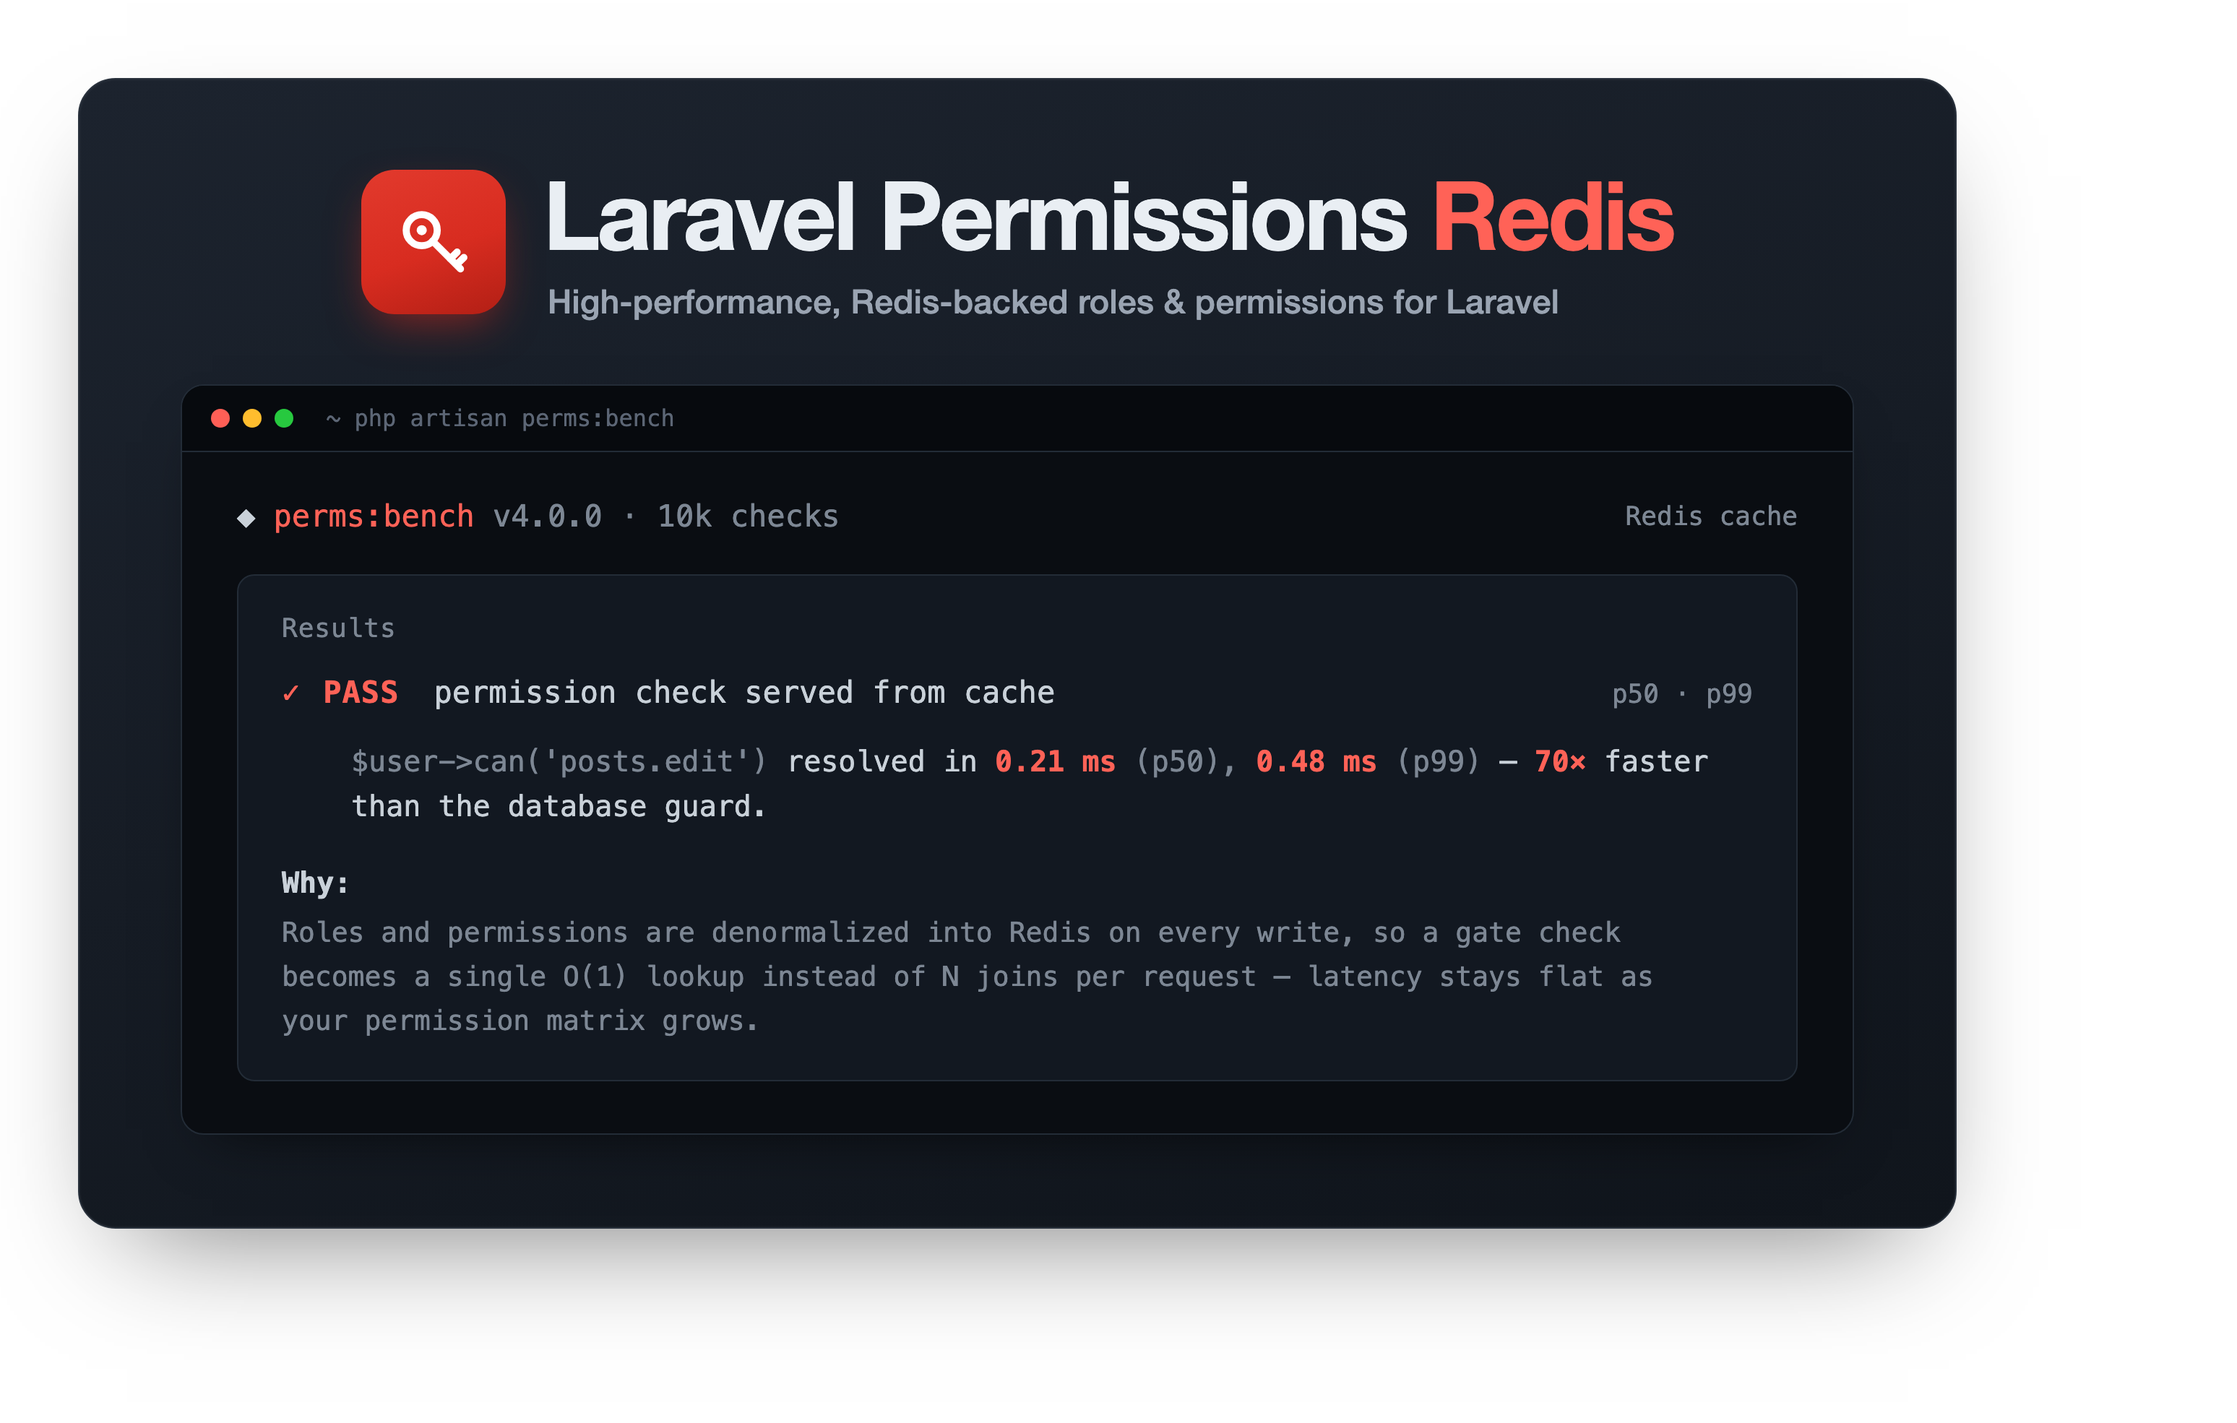
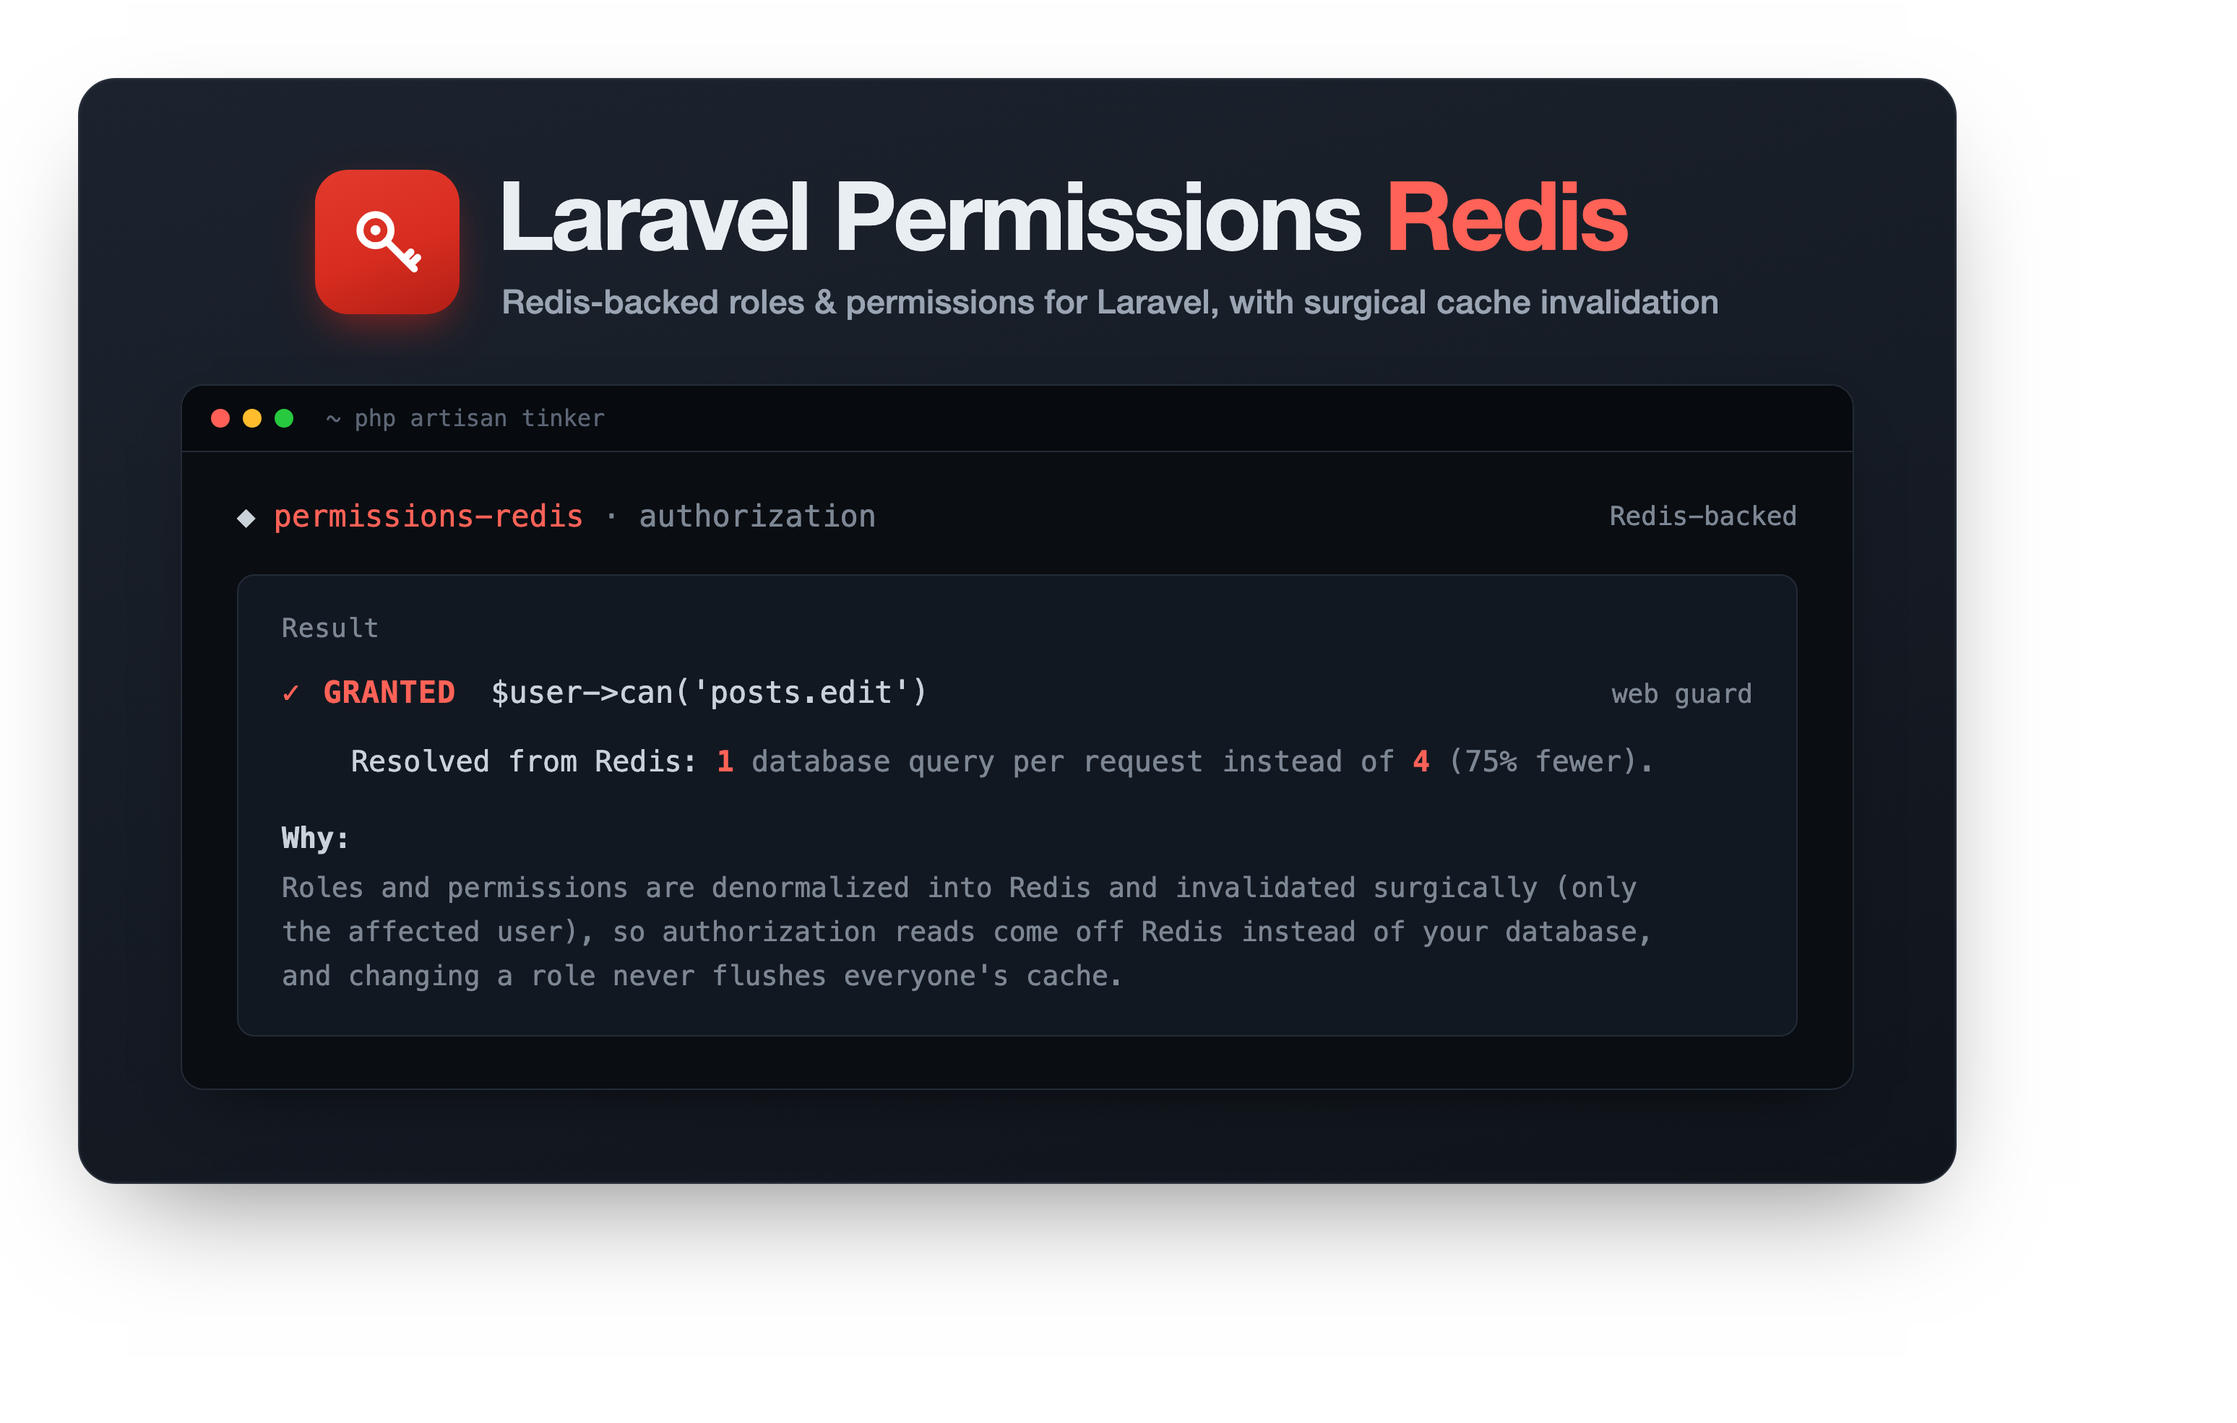
docs: honest positioning and benchmark numbers
Reframe the package around its real value (75% fewer DB queries per request
and surgical cache invalidation) instead of raw speed. Replace the inflated
~10x/70x wall-clock claims with measured numbers (~1.3-1.4x on SQLite, ~wash
on a networked DB), add SQLite + MySQL tables, drop the 'high-performance' /
'database-per-request' framing, update the hero banner, and add a Versioning
section committing to semver from 4.x on.

diff --git a/.github/assets/hero.html b/.github/assets/hero.html
@@ -98,7 +98,7 @@
       </div>
       <div class="wordmark">
         <div class="row"><span class="a">Laravel Permissions </span><span class="b">Redis</span></div>
-        <div class="sub">High-performance, Redis-backed roles &amp; permissions for Laravel</div>
+        <div class="sub">Redis-backed roles &amp; permissions for Laravel, with surgical cache invalidation</div>
       </div>
     </div>
 
@@ -106,36 +106,35 @@
     <div class="term">
       <div class="bar">
         <div class="dot r"></div><div class="dot y"></div><div class="dot g"></div>
-        <div class="t">~ php artisan perms:bench</div>
+        <div class="t">~ php artisan tinker</div>
       </div>
       <div class="body">
         <div class="head">
-          <div class="ver">&#9670; <span class="g">perms:bench</span> <span class="d">v4.0.0 &middot; 10k checks</span></div>
-          <div class="org">Redis cache</div>
+          <div class="ver">&#9670; <span class="g">permissions-redis</span> <span class="d">&middot; authorization</span></div>
+          <div class="org">Redis-backed</div>
         </div>
 
         <div class="panel">
-          <div class="label">Results</div>
+          <div class="label">Result</div>
 
           <div class="pass">
             <span class="chk">&#10003;</span>
-            <span class="word">PASS</span>
-            <span class="desc">permission check served from cache</span>
-            <span class="tag">p50 &middot; p99</span>
+            <span class="word">GRANTED</span>
+            <span class="desc">$user-&gt;can('posts.edit')</span>
+            <span class="tag">web guard</span>
           </div>
 
           <div class="line">
-            <span class="dim">$user-&gt;can('posts.edit')</span> resolved in
-            <span class="num">0.21 ms</span> <span class="dim">(p50),</span>
-            <span class="num">0.48 ms</span> <span class="dim">(p99)</span>
-            &mdash; <span class="num">70&times;</span> faster than the database guard.
+            Resolved from Redis:
+            <span class="num">1</span> <span class="dim">database query per request instead of</span>
+            <span class="num">4</span> <span class="dim">(75% fewer).</span>
           </div>
 
           <div class="why">
             <div class="k">Why:</div>
-            <div class="p">Roles and permissions are denormalized into Redis on every write, so
-              a gate check becomes a single O(1) lookup instead of N joins per request &mdash;
-              latency stays flat as your permission matrix grows.</div>
+            <div class="p">Roles and permissions are denormalized into Redis and invalidated
+              surgically (only the affected user), so authorization reads come off Redis
+              instead of your database, and changing a role never flushes everyone's cache.</div>
           </div>
         </div>
       </div>

diff --git a/README.md b/README.md
@@ -1,14 +1,14 @@
 <p align="center">
   <a href="https://github.com/scabarcas17/laravel-permissions-redis">
-    <img alt="Laravel Permissions Redis, high-performance Redis-backed roles and permissions for Laravel" src=".github/assets/hero.png" width="900">
+    <img alt="Laravel Permissions Redis, Redis-backed roles and permissions for Laravel with surgical cache invalidation" src=".github/assets/hero.png" width="900">
   </a>
 </p>
 
 # Laravel Permissions Redis
 
-A high-performance, Redis-backed roles and permissions package for Laravel. Eliminates repetitive database queries by caching all authorization data in Redis with automatic invalidation.
+A Redis-backed roles and permissions package for Laravel with a Spatie-compatible API. It keeps each user's resolved permissions in Redis and invalidates the cache surgically (one user at a time) instead of flushing everything on every change.
 
-Inspired by [spatie/laravel-permission](https://github.com/spatie/laravel-permission), the de facto standard for roles and permissions in Laravel. This package adopts its familiar API (`hasRole`, `hasPermissionTo`, `assignRole`, Blade directives, middleware) while replacing the database-per-request approach with a Redis-first architecture for applications where authorization throughput is critical.
+Inspired by [spatie/laravel-permission](https://github.com/spatie/laravel-permission), the de facto standard for roles and permissions in Laravel. This package keeps its familiar API (`hasRole`, `hasPermissionTo`, `assignRole`, Blade directives, middleware) but changes the storage layer: Spatie caches the permission registry yet still lazy-loads each user's role and permission relations from the database per request (about 4 queries), while this package keeps the resolved per-user set in Redis (1 query). The goal is to take authorization load off the database and avoid full cache-flush stampedes on permission changes, not to be dramatically faster. For most apps, Spatie with its cache is simpler and enough; this package earns its place when the database is your bottleneck or permissions change often at scale.
 
 [![CI](https://github.com/scabarcas17/laravel-permissions-redis/actions/workflows/ci.yml/badge.svg)](https://github.com/scabarcas17/laravel-permissions-redis/actions/workflows/ci.yml)
 [![codecov](https://codecov.io/gh/scabarcas17/laravel-permissions-redis/graph/badge.svg)](https://codecov.io/gh/scabarcas17/laravel-permissions-redis)
@@ -51,6 +51,7 @@ Inspired by [spatie/laravel-permission](https://github.com/spatie/laravel-permis
   - [When to Use This Package](#when-to-use-this-package)
 - [Migrating from Spatie](#migrating-from-spatie)
 - [Troubleshooting](#troubleshooting)
+- [Versioning](#versioning)
 - [License](#license)
 
 ---
@@ -1333,43 +1334,55 @@ $this->app->singleton(
 
 ### Performance Benchmark
 
-We provide a [standalone benchmark application](https://github.com/scabarcas17/laravel-permissions-redis-benchmark) that compares both packages side by side under identical conditions. Numbers below come from `php artisan bench:markdown --warm=5 --runs=30` against `v4.0.0` on SQLite + Redis (Apple Silicon, PHP 8.4, predis). Methodology: 5 warm-up + 30 measurement runs per strategy, GC reset before each run, percentiles reported across the measurement set. See the bench README for full methodology and how to reproduce.
+A [standalone benchmark application](https://github.com/scabarcas17/laravel-permissions-redis-benchmark) compares both packages side by side, run with `php artisan bench:markdown 1,10,50 --warm=5 --runs=30` (Apple Silicon, PHP 8.x, predis, local Redis). Each "request" resets in-memory state, so neither package carries PHP process memory across requests (matching PHP-FPM, and Octane where this package resets its in-memory cache per request). The robust, hardware-independent result is the **query count** (4 queries hitting several tables versus 1). Wall-clock is modest and depends heavily on your database, so read the latency tables with that in mind.
 
-#### Database queries per request
+#### Database queries per authorization-heavy request
 
 | Scenario | spatie/laravel-permission | laravel-permissions-redis | Reduction |
 |----------|:------------------------:|:-------------------------:|:---------:|
-| 1 iteration (37 checks) | 4 DB queries | 1 DB query | **75%** |
-| 10 iterations | 40 DB queries | 10 DB queries | **75%** |
-| 50 iterations | 200 DB queries | 50 DB queries | **75%** |
+| 1 request (37 checks) | 4 DB queries | 1 DB query | **75%** |
+| 10 requests | 40 DB queries | 10 DB queries | **75%** |
+| 50 requests | 200 DB queries | 50 DB queries | **75%** |
 
-#### Wall-clock time per request (median, p50)
+Spatie caches the *global* permission/role registry, but each `User::find()` still lazy-loads that user's role and permission relations from the database (about 4 queries across several tables). This package keeps the resolved per-user set in Redis, so the only database query left is the `SELECT ... FROM users` lookup; the rest is served from Redis plus a per-request in-memory cache.
+
+#### Wall-clock per request (median, p50)
+
+On in-process **SQLite** (database queries are nearly free, which isolates the Redis/in-memory paths):
 
 | Scenario | spatie/laravel-permission | laravel-permissions-redis | Speedup |
 |----------|:------------------------:|:-------------------------:|:-------:|
-| 1 iteration (37 checks) | 14.27 ms | 1.44 ms | **9.92x faster** |
-| 10 iterations | 144.38 ms | 14.39 ms | **10.03x faster** |
-| 50 iterations | 730.88 ms | 72.87 ms | **10.03x faster** |
+| 1 request (37 checks) | 2.22 ms | 1.70 ms | ~1.3x |
+| 10 requests | 23.0 ms | 16.4 ms | ~1.4x |
+| 50 requests | 118 ms | 82 ms | ~1.45x |
 
-> Each iteration exercises 27 `hasPermissionTo` calls, 4 `hasRole` calls, 4 batch ops (`hasAnyRole`, `hasAllRoles`, `hasAnyPermission`, `hasAllPermissions`), and 2 collection calls. Spatie caches the *global* permission/role registry, but each `User::find()` still triggers Eloquent's lazy-loading of the user's role and permission relations, for exactly 4 DB queries per authorization-heavy request. The Redis package keeps the full user-to-roles-to-permissions mapping in Redis, leaving only the `SELECT * FROM users` lookup. The speedup holds at **~10x median** across all iteration counts because both strategies scale linearly. The constant per iteration is what differs (4 DB queries vs 1 Redis lookup).
+On **MySQL over TCP** (a realistic networked database; numbers are noisy across runs):
 
-#### How the caching differs
+| Scenario | spatie/laravel-permission | laravel-permissions-redis | Speedup |
+|----------|:------------------------:|:-------------------------:|:-------:|
+| 1 request (37 checks) | ~3.5 ms | ~3.8 ms | ~1.0x (often a wash) |
+| 10 requests | ~36 ms | ~36 ms | ~1.0x |
+| 50 requests | ~185 ms | ~140 ms | ~1.3x |
+
+> Each request exercises 27 `hasPermissionTo` calls, 4 `hasRole` calls, 4 batch ops, and 2 collection calls. On SQLite, avoiding 3 relation queries shows up as ~1.4x. On a networked database this package replaces those DB queries with several Redis reads (`SMEMBERS` / `HMGET`) over the same network, so latency lands close to Spatie plus cache and the edge is small and noisy (clear only on authorization-heavy requests). It was never the order of magnitude older numbers implied. The durable, hardware-independent difference is the query count above; the latency benefit is real but modest and database-dependent.
+
+#### How the two approaches differ
 
 | Aspect | spatie/laravel-permission | laravel-permissions-redis |
 |--------|---------------------------|---------------------------|
-| **Cold start** | Queries DB, caches full permission array via Cache facade | Queries DB, warms Redis SETs per user/role |
-| **Warm check** | Deserialize cached array, then scan for match | `SISMEMBER` (O(1) hash lookup in Redis) |
-| **In-memory** | None; hits cache driver every call | Per-request memory cache avoids repeated Redis calls |
-| **Invalidation** | `forgetCachedPermissions()`, drops entire cache | Surgical: only rewarms affected user/role |
-| **After invalidation** | Next request pays full DB reload cost | Cache is already warm, zero penalty |
-| **Concurrent users** | Each request may independently rebuild cache | Redis SETs are shared across all processes |
+| **What's cached globally** | Permission/role registry (in the Cache store) | Same data, denormalized into per-user/per-role Redis SETs |
+| **Per-user resolution** | Lazy-loads the user's role/permission relations from the DB each request | Reads the resolved per-user set from Redis |
+| **Permission check** | In-memory check once the relations are loaded | `SISMEMBER` against a Redis SET, then in-memory for the rest of the request |
+| **Invalidation** | `forgetCachedPermissions()` drops the whole registry cache | Surgical: rewarms only the affected user/role |
+| **After a change** | Next requests rebuild the registry from the DB | Other users' caches are untouched |
 
-#### When the difference matters most
+#### Where it actually helps
 
-- **High-traffic APIs.** Hundreds of permission checks per second. The O(1) Redis lookup vs O(n) array scan adds up.
-- **Role/permission changes.** Spatie drops the entire cache, so the next N requests all hit the DB simultaneously. This package rewarms only the affected user(s).
-- **Octane / long-running workers.** Spatie's cache can go stale in persistent workers. This package flushes in-memory state between Octane requests automatically.
-- **Multi-tenant apps.** Isolated Redis key namespaces prevent tenants from leaking data.
+- **Reducing database load.** The durable win is 75% fewer DB queries per request (across several tables), which shifts authorization reads off the database and its connection pool onto Redis. It also gives a modest latency win, larger on slower or more remote databases.
+- **Frequent role/permission changes.** Spatie drops the whole registry cache on any change; this package rewarms only the affected user(s), avoiding a cache-rebuild stampede.
+- **Multi-tenant apps.** Per-tenant Redis key isolation is built in.
+
+If your app runs a handful of checks per request at low traffic, Spatie with its cache is perfectly adequate and simpler (no hard Redis dependency). See [When to Use This Package](#when-to-use-this-package).
 
 #### Try it yourself
 
@@ -1386,7 +1399,7 @@ See the [benchmark repository](https://github.com/scabarcas17/laravel-permission
 
 #### Use `laravel-permissions-redis` when:
 
-- **Performance is critical.** Your app handles high traffic and permission checks are a bottleneck. Redis `SISMEMBER` is orders of magnitude faster than deserializing cached arrays.
+- **Database load is your bottleneck.** You want authorization reads off the database and its connection pool: 1 query per request instead of 4. Per-request latency improves modestly too (more on slow or remote databases), but this is not an order-of-magnitude speedup.
 - **You already run Redis.** If Redis is part of your stack (sessions, queues, cache), adding authorization to it is a natural fit with no additional infrastructure.
 - **You use Laravel Octane.** Built-in support for flushing in-memory state between requests prevents stale permission data in long-lived workers.
 - **You need multi-tenancy.** Redis key isolation per tenant is built in, with support for `stancl/tenancy` or custom resolvers.
@@ -1599,6 +1612,12 @@ php artisan permissions-redis:migrate-from-spatie
        Scabarcas\LaravelPermissionsRedis\PermissionsRedisServiceProvider::class,
    ];
    ```
+
+---
+
+## Versioning
+
+This package follows [Semantic Versioning](https://semver.org). The early 1.x through 4.x line moved fast and shipped breaking changes more often than it should have; from `4.x` onward the API is considered stable, and breaking changes will only land in a new major (`5.0.0`). Minor releases add backwards-compatible features, patch releases are fixes only. If a release breaks something that this policy says it shouldn't, please open an issue, it's a bug.
 
 ---
 
